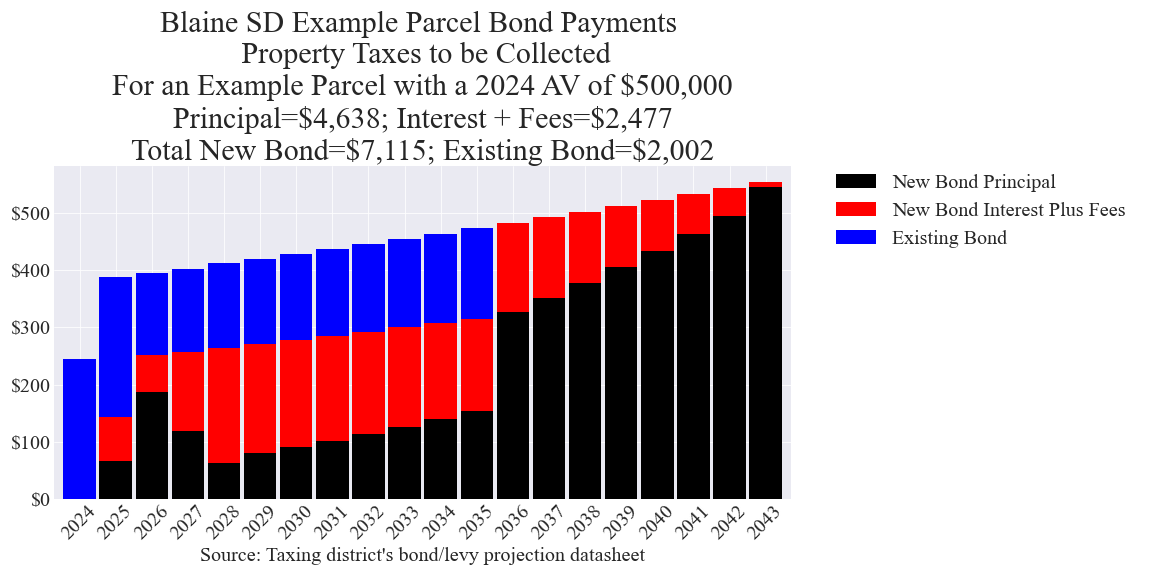
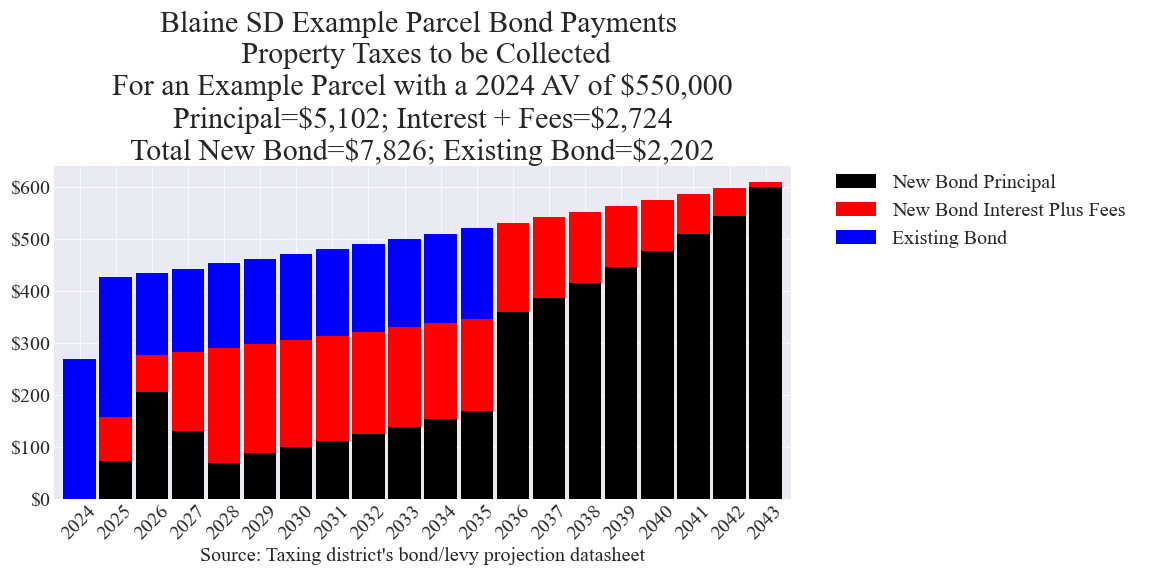
Updated election 20241105
Updated:
Blaine
Meridian

diff --git a/_includes/cost_estimates/20241105/Meridian_20241105_Enhanced.html b/_includes/cost_estimates/20241105/Meridian_20241105_Enhanced.html
@@ -12,7 +12,7 @@
 	var dataParcel;
 	
 	totalBondAV = 2648709000;
-	sampleParcelAV = 500000;
+	sampleParcelAV = 550000;
 	sampleParcelAVMin = 100000;
 	sampleParcelAVMax = 2000000;
 	totalBondPrincipal = 70000000;
@@ -40,25 +40,25 @@
 
 		data.addRows([
 			['2025', 1186500.0, 2243500.0],
-			['2026', 136189.65, 3785810.35],
-			['2027', 209646.610065, 3778353.389935],
-			['2028', 280150.972359517, 3766849.02764048],
-			['2029', 363527.303324738, 3751472.69667526],
-			['2030', 443478.800927032, 3731521.19907297],
-			['2031', 2232839.98763014, 3707160.01236986],
-			['2032', 2477610.24071561, 3584389.75928439],
-			['2033', 2732846.28927829, 3448153.71072171],
-			['2034', 3006116.039069, 3297883.960931],
-			['2035', 3296801.31491712, 3135198.68508288],
-			['2036', 3601530.70504433, 2956469.29495567],
-			['2037', 3932592.77451698, 2758407.22548302],
-			['2038', 4283860.45848873, 2542139.54151127],
-			['2039', 4658445.17995461, 2306554.82004539],
-			['2040', 5050643.91282178, 2050356.08717822],
-			['2041', 5472416.48297557, 1772583.51702444],
-			['2042', 5916389.92903155, 1471610.07096845],
-			['2043', 6389790.32695005, 1146209.67304995],
-			['2044', 6891227.08138011, 794772.918619893],
+			['2026', 136190.0, 3785810.0],
+			['2027', 209647.0, 3778353.0],
+			['2028', 280151.0, 3766849.0],
+			['2029', 363527.0, 3751473.0],
+			['2030', 443479.0, 3731521.0],
+			['2031', 2232840.0, 3707160.0],
+			['2032', 2477610.0, 3584390.0],
+			['2033', 2732846.0, 3448154.0],
+			['2034', 3006116.0, 3297884.0],
+			['2035', 3296801.0, 3135199.0],
+			['2036', 3601531.0, 2956469.0],
+			['2037', 3932593.0, 2758407.0],
+			['2038', 4283860.0, 2542140.0],
+			['2039', 4658445.0, 2306555.0],
+			['2040', 5050644.0, 2050356.0],
+			['2041', 5472416.0, 1772584.0],
+			['2042', 5916390.0, 1471610.0],
+			['2043', 6389790.0, 1146210.0],
+			['2044', 6891227.0, 794773.0],
 			['2045', 7437396.0, 403604.0],
 
 		]);

diff --git a/_includes/cost_estimates/20241105/Blaine_20241105_Enhanced.html b/_includes/cost_estimates/20241105/Blaine_20241105_Enhanced.html
@@ -12,7 +12,7 @@
 	var dataParcel;
 	
 	totalBondAV = 7546443000;
-	sampleParcelAV = 500000;
+	sampleParcelAV = 550000;
 	sampleParcelAVMin = 100000;
 	sampleParcelAVMax = 2000000;
 	totalBondPrincipal = 70000000;
@@ -39,24 +39,24 @@
 		data.addColumn('number', 'Interest + Fees');
 
 		data.addRows([
-			['2025', 1004251.5, 1145748.5],
-			['2026', 2811213.99115, 984786.00885],
-			['2027', 1791101.02815972, 2085898.97184029],
-			['2028', 931140.486001559, 3064859.51399844],
-			['2029', 1197028.68980298, 2904971.31019702],
-			['2030', 1355569.29655885, 2849430.70344115],
-			['2031', 1528516.22097329, 2786483.77902672],
-			['2032', 1705544.30775889, 2715455.69224111],
-			['2033', 1898847.02627023, 2636152.97372977],
-			['2034', 2100187.51877444, 2547812.48122556],
-			['2035', 2311948.62597622, 2450051.37402378],
-			['2036', 4947605.5220091, 2342394.4779909],
-			['2037', 5318623.44947897, 2118376.55052103],
-			['2038', 5706479.21264747, 1877520.78735253],
-			['2039', 6120911.2304646, 1619088.7695354],
-			['2040', 6548145.76494279, 1341854.23505721],
-			['2041', 7001764.61828577, 1045235.38171423],
-			['2042', 7482574.25492769, 728425.745072313],
+			['2025', 1004252.0, 1145749.0],
+			['2026', 2811214.0, 984786.0],
+			['2027', 1791101.0, 2085899.0],
+			['2028', 931140.0, 3064860.0],
+			['2029', 1197029.0, 2904971.0],
+			['2030', 1355569.0, 2849431.0],
+			['2031', 1528516.0, 2786484.0],
+			['2032', 1705544.0, 2715456.0],
+			['2033', 1898847.0, 2636153.0],
+			['2034', 2100188.0, 2547812.0],
+			['2035', 2311949.0, 2450051.0],
+			['2036', 4947606.0, 2342394.0],
+			['2037', 5318623.0, 2118377.0],
+			['2038', 5706479.0, 1877521.0],
+			['2039', 6120911.0, 1619089.0],
+			['2040', 6548146.0, 1341854.0],
+			['2041', 7001765.0, 1045235.0],
+			['2042', 7482574.0, 728426.0],
 			['2043', 8238547.0, 135453.0],
 
 		]);
